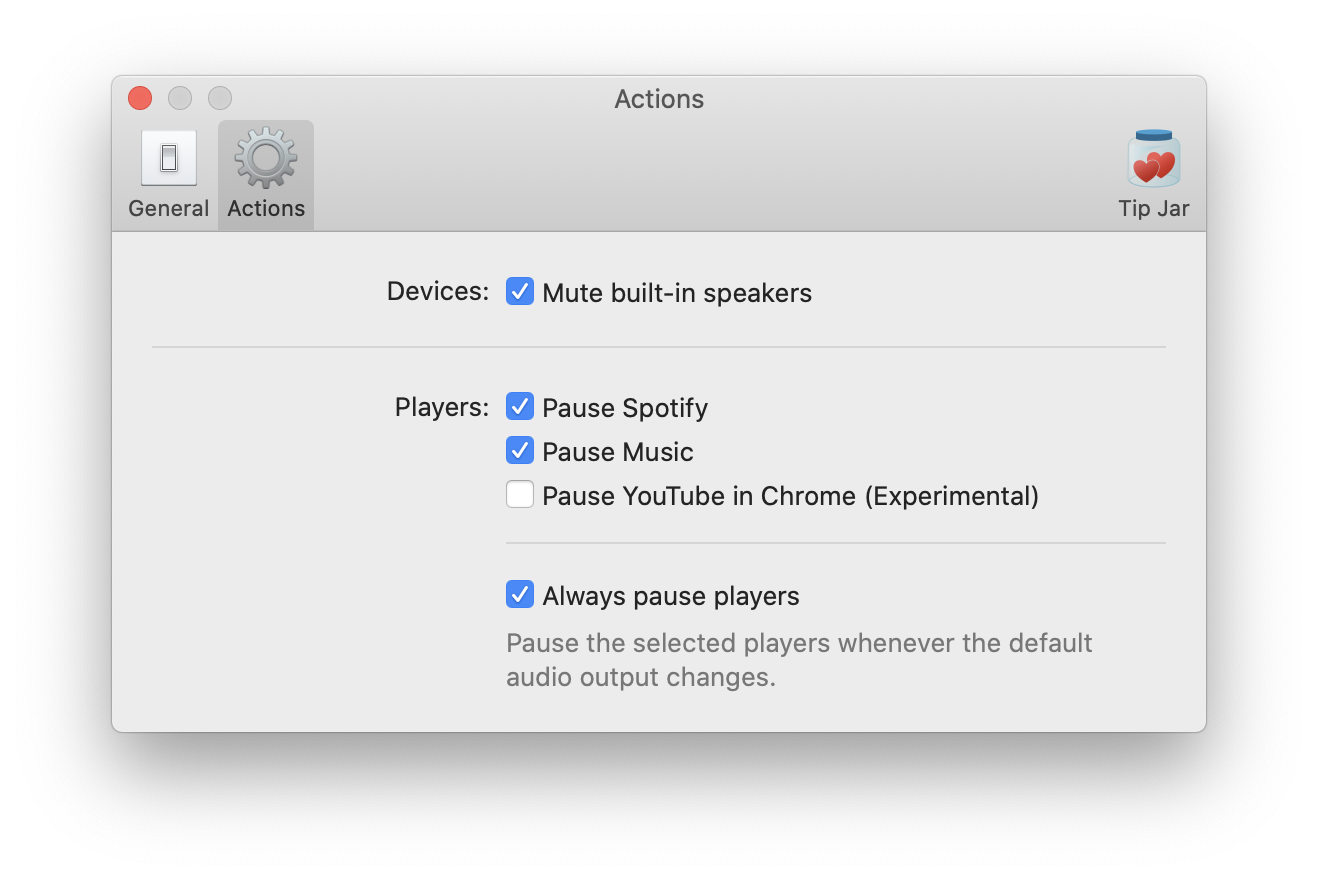
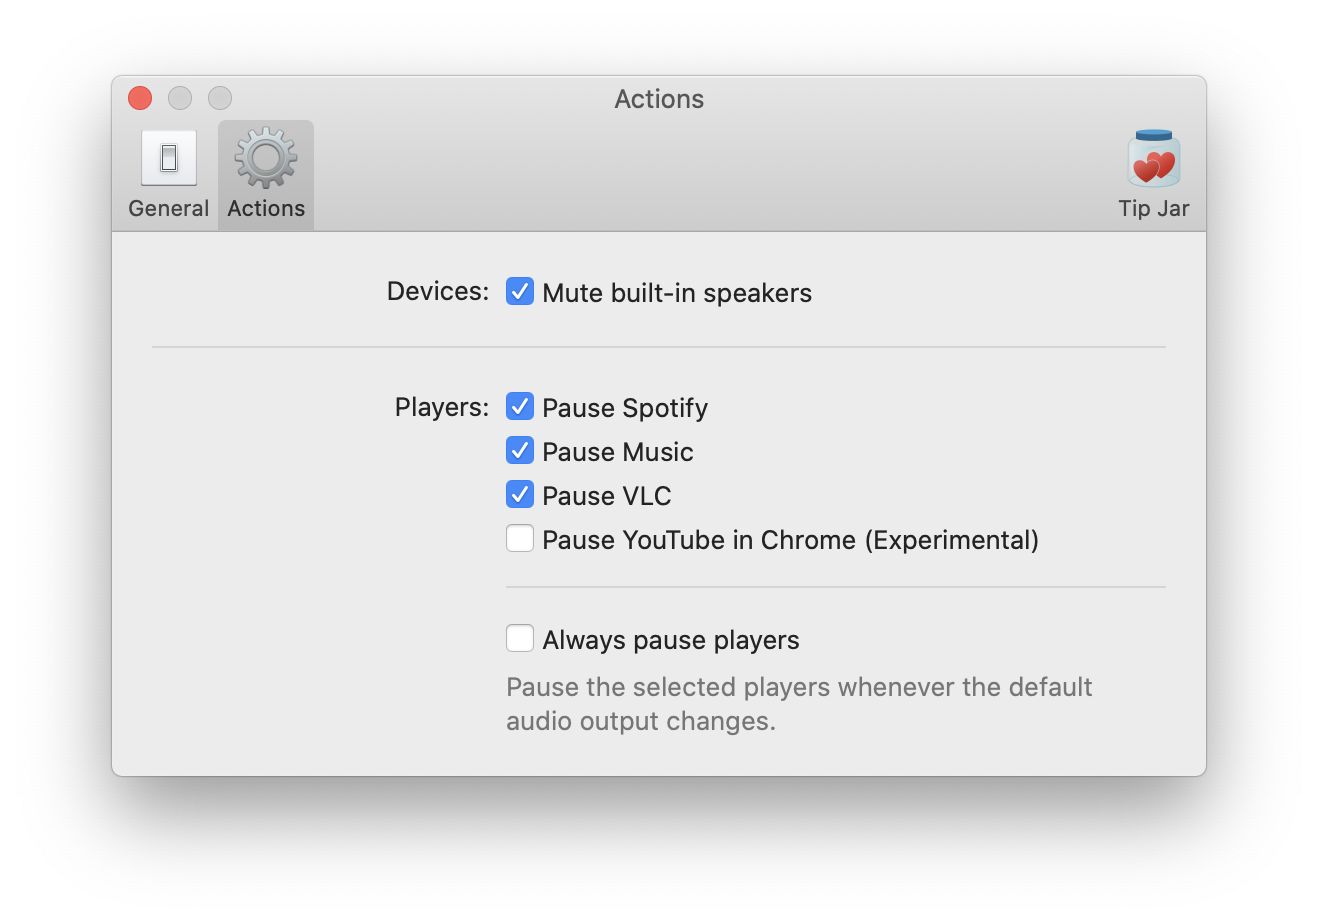
Add post about Relax 23

diff --git a/relax.html b/relax.html
@@ -1,10 +1,10 @@
 ---
 layout: app/live
-site_title: Relax mutes when you unplug
+site_title: Relax mutes speakers and pauses players when you unplug your headphones
 title: Relax 
-subtitle: Mutes internal speakers
+subtitle: Mutes speakers, pauses players
 description: >-
-  Relax automatically mutes your internal speakers and pauses music apps when you disconnect headphones.
+  Relax automatically mutes your internal speakers and pauses music and video apps when you disconnect headphones.
 icon: relax-sunny_512.png
 hero: 
   icon: relax-sunny_512.png
@@ -14,11 +14,11 @@ hero:
     b: 51
 features:
   - Mutes internal speakers when headphones disconnect or unplug.
-  - Pauses Spotify &amp; iTunes / Apple Music automatically.
+  - Pauses Spotify, iTunes / Apple Music &amp; VLC automatically.
   - Works with wired and wireless headphones and speakers.
 appstore: /relax/appstore
 presskit: /relax/presskit
-tags: [macOS, Audio, Spotify, iTunes, Apple Music]
+tags: [macOS, Audio, Spotify, iTunes, Apple Music, VLC]
 topic: relax
 permalink: /relax/
 mailchimp:
@@ -88,7 +88,7 @@ producthunt:
     <div class="columns">
       <div class="column is-offset-6 is-6">
         <div class="content is-medium">
-          <h2 class="title is-2">Pauses music apps</h2>
+          <h2 class="title is-2">Pauses music and video players</h2>
         </div>
       </div>
     </div>
@@ -100,7 +100,7 @@ producthunt:
       </div>
       <div class="column is-offset-1 is-6">
         <div class="content is-medium">
-          <p>Besides muting the volume, Relax can pause playback with Spotify, iTunes and Apple Music.</p>
+          <p>Besides muting the volume, Relax can pause playback with Spotify, iTunes, Apple Music and VLC.</p>
           <p>Instead of pausing players only when switching to the built-in speaker, you can choose to <em>always</em> pause players when the default audio output changes. Don't miss a second of your favorite song or podcast ever again!</p>
           <p>It can even pause YouTube playing in Chrome* (experimental).</p>
         </div>

diff --git a/_posts/2020-08-17-relax-23.md b/_posts/2020-08-17-relax-23.md
@@ -1,0 +1,15 @@
+---
+layout: post
+title: Automatically pause VLC
+date: 2020-08-17
+tags: [relax, updates]
+description: "The latest update for Relax can automatically pause VLC when you unplyg your headphones"
+---
+
+![A screenshot of Relax' action preferences](/assets/img/app/relax-actions-settings@2x.png)
+
+[Relax](/relax) v2020.3 adds support for automatically pausing VLC. 🍿
+
+Need to pause the movie to get a drink or snack? Just unplug your headphones/AirPods. 👌
+
+You can [get Relax here](/relax/get)!
